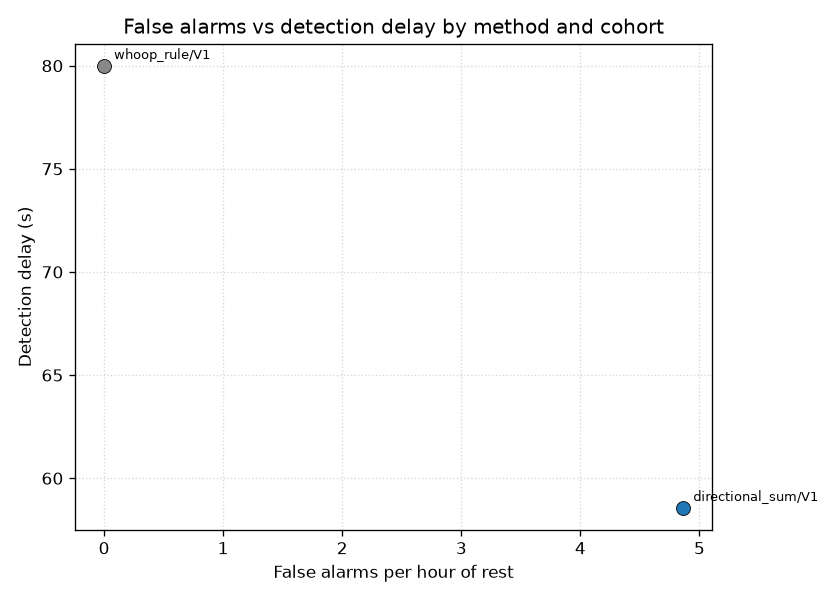
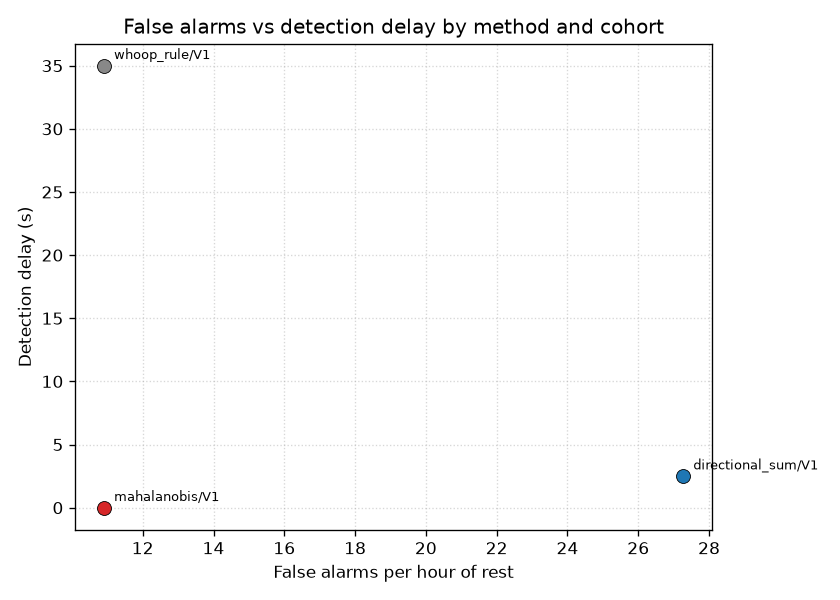
Final pushes before hackachusetts submission

diff --git a/kiro_usage.md b/kiro_usage.md
@@ -2,4 +2,4 @@
 
 **Tooling & spec-driven development.** We built this entirely through Kiro's spec-driven workflow, orchestrated from the agent/CLI surface rather than ad-hoc chat. The spec started from a README pitch, which we turned into a formal three-document spec: a requirements.md with 15 EARS-style acceptance criteria, a design.md with a module architecture, the shared `Per_Window_Table` contract, and 28 named correctness properties, and a tasks.md dependency graph of 19 tasks. Because every module (data loaders, cleaner, windower, baseline, scorer, flagger, movement check, explainer, evaluator, calibrator) was pinned to specific acceptance criteria and a shared data contract *before* any code was written, we could dispatch tasks to execution sub-agents in parallel waves and have them integrate cleanly — a loader written in isolation still produced exactly the table the scorer expected. Compared to vibe coding, the difference showed up at integration time: the full pipeline wired together end-to-end on the first attempt on synthetic data, and when real data later exposed genuine bugs (datetime headers, subset-of-signals Mahalanobis, artifact spikes, a degenerate baseline-spread that let one signal dominate), the spec let us reopen exactly the owning task, fix it against its acceptance criteria, and re-verify without regressing neighbors. Vibe coding would have produced a tangle of implicit assumptions that the real E4 data would have shattered.
 
-The work was pure spec + task-execution sub-agents plus Kiro's own capabilities (file/codebase search, shell execution for real-data verification, web search to confirm the PhysioNet dataset's provenance and license, and image reading to actually look at the generated figures and diagnose the empty scatter plot). On property-based testing: the design specifies 28 correctness properties (parsing round-trips, windowing boundaries, z-score sign/magnitude, gate/tier/hysteresis monotonicity, LOSO partitioning, FHIR round-trip) and the Hypothesis harness is scoped in tasks.md, but those test sub-tasks were deliberately deferred to ship the working pipeline first and remain unwritten
+The work was pure spec + task-execution sub-agents plus Kiro's own capabilities (file/codebase search, shell execution for real-data verification, web search to confirm the PhysioNet dataset's provenance and license). On property-based testing: the design specifies 28 correctness properties (parsing round-trips, windowing boundaries, z-score sign/magnitude, gate/tier/hysteresis monotonicity, LOSO partitioning, FHIR round-trip) and the Hypothesis harness is scoped in tasks.md, but those test sub-tasks were deliberately deferred to ship the working pipeline first and remain unwritten
